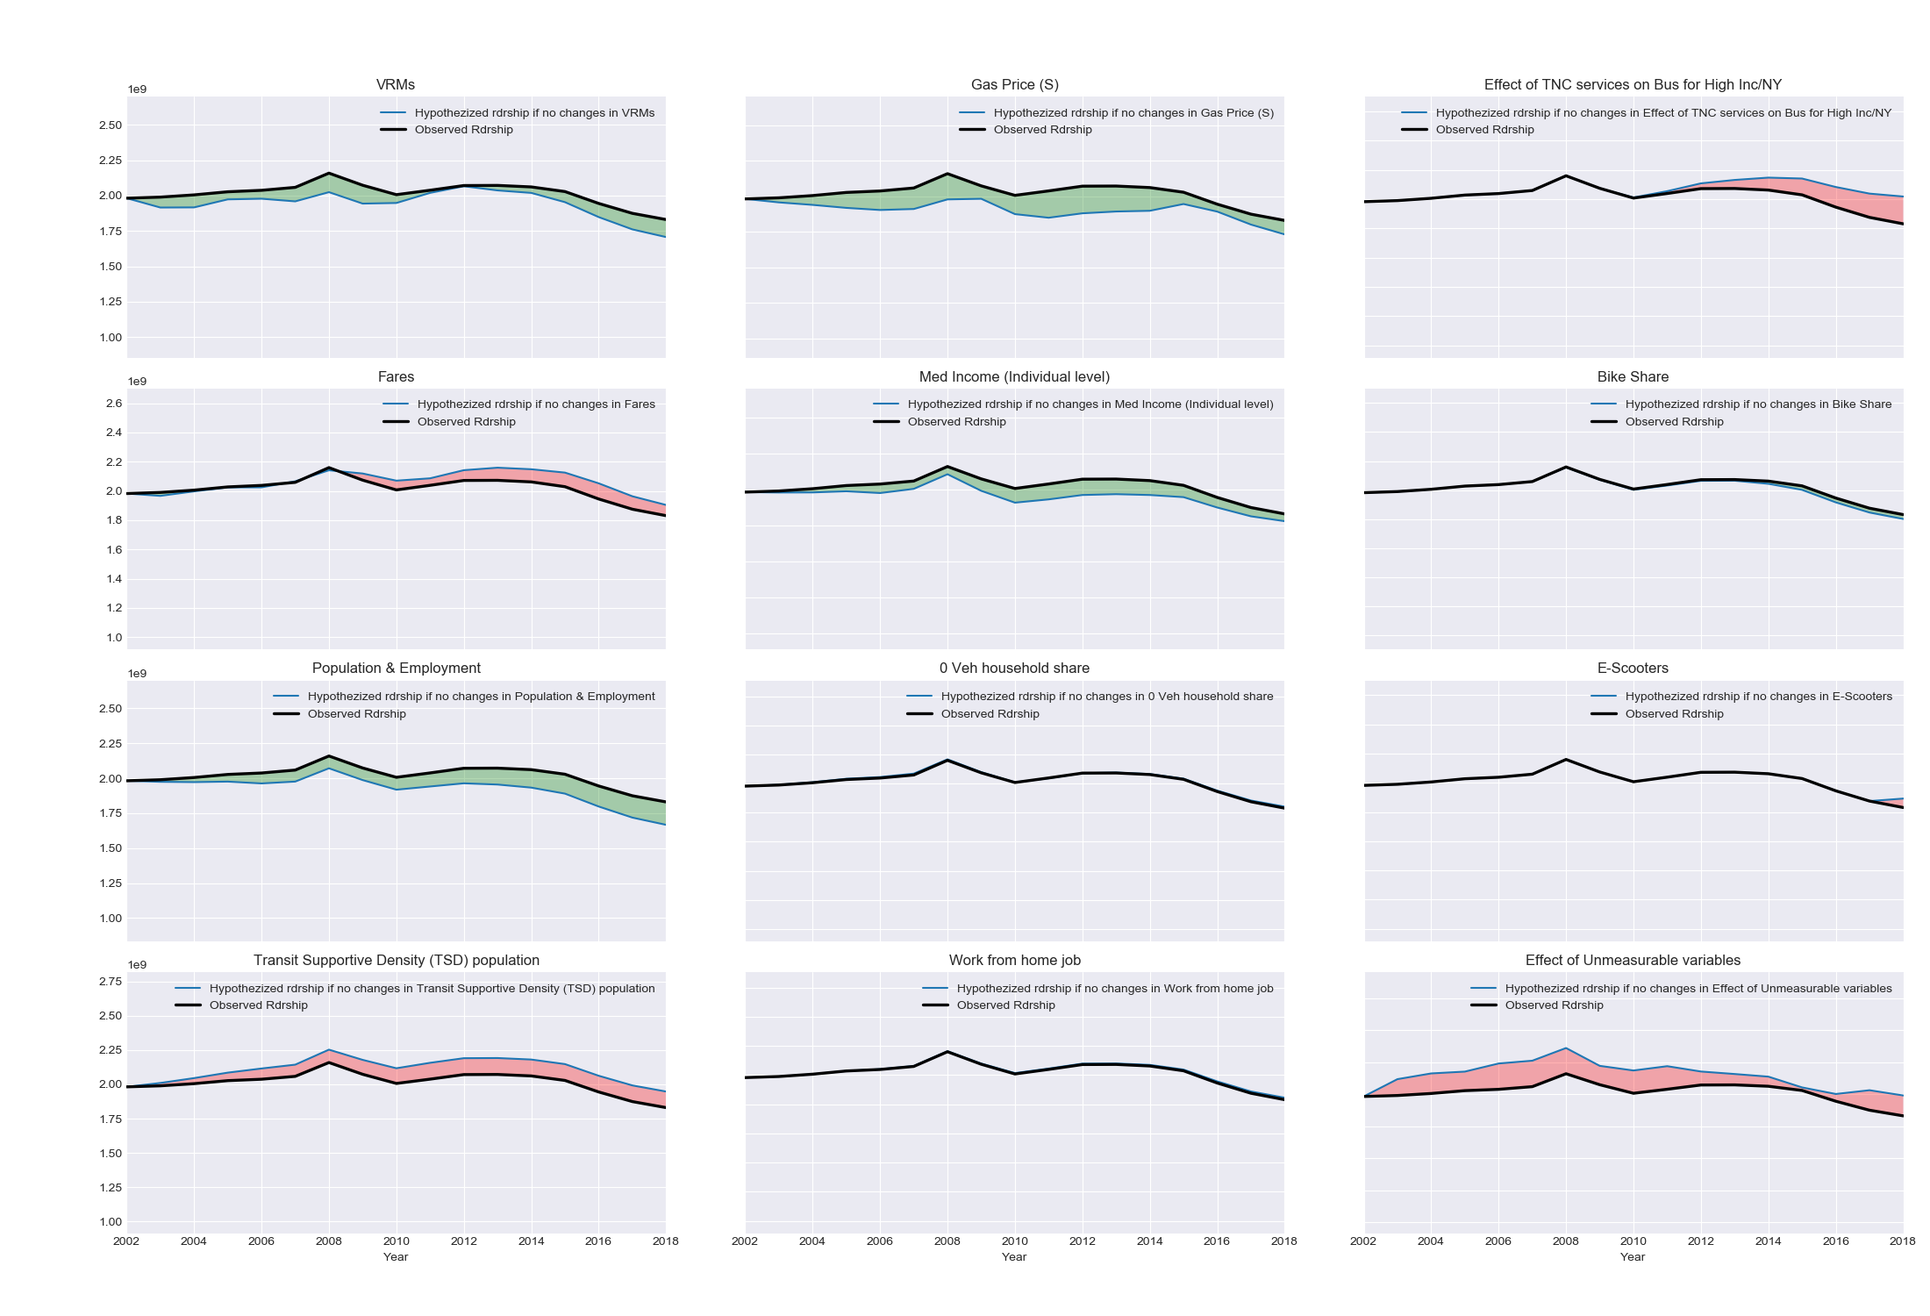
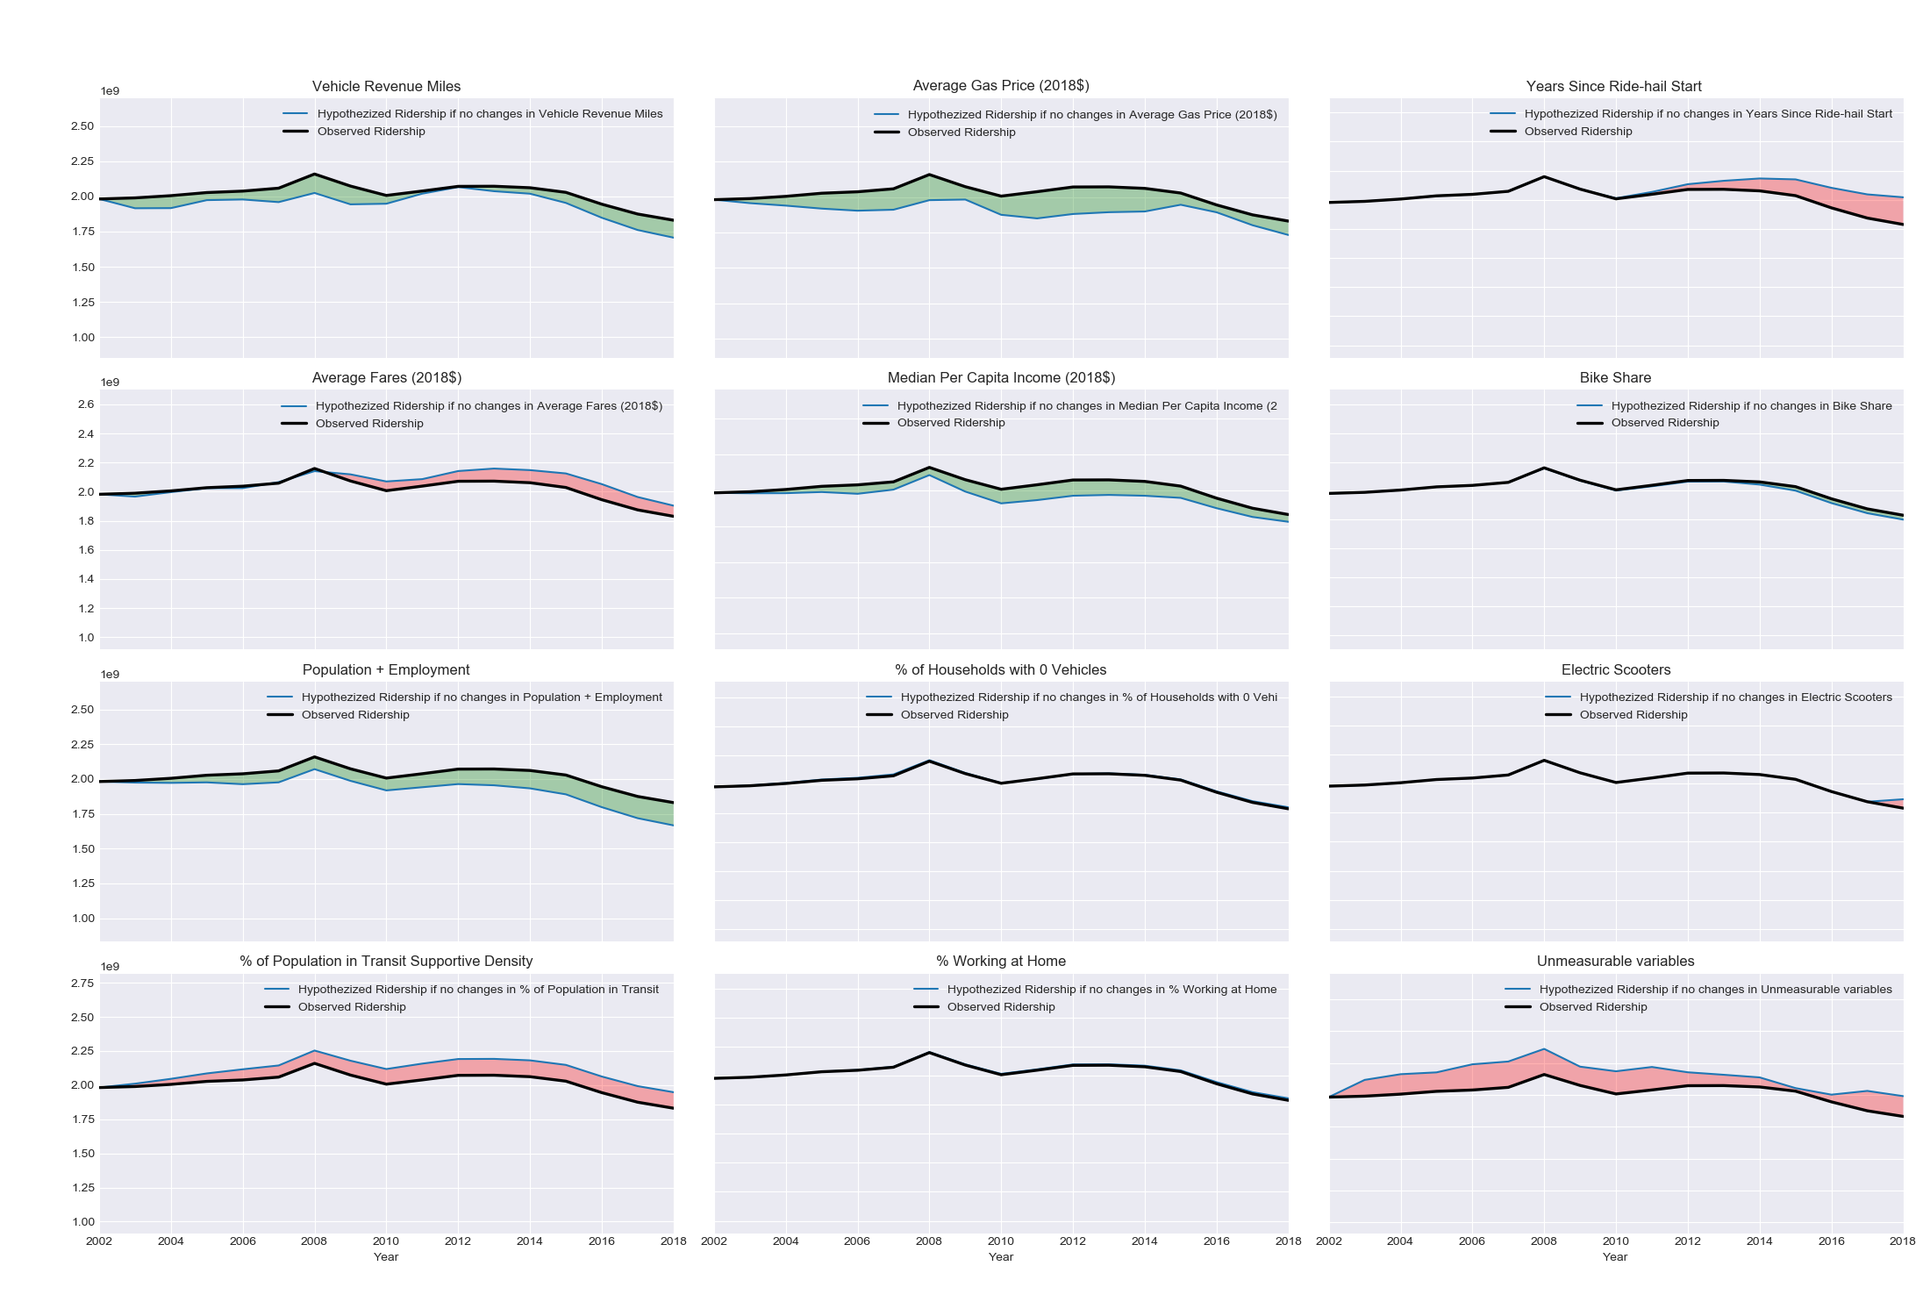
refinements overs the script-7
refinements overs the script-7

diff --git a/Factors and Ridership Data/code/Script-Est7v2.0.py b/Factors and Ridership Data/code/Script-Est7v2.0.py
@@ -1,10 +1,13 @@
 # import packages for the file usage
 import os.path
 import pathlib
+import seaborn as sns
 import matplotlib.pyplot as plt
 import numpy as np
 import pandas as pd
 import os
+import matplotlib as mpl
+from matplotlib import cycler
 
 
 def filter_dataframe(_df, _startyear, _endyear):
@@ -61,22 +64,22 @@ def prepare_charts(_df_org, _clustername, _filename, _startyear, _endyear):
                          'UPT_ADJ_BIKE_SHARE_FAC_cumsum',
                          'UPT_ADJ_scooter_flag_FAC_cumsum',
                          'UPT_ADJ_Unknown_FAC_cumsum']
-            subplot_labels = ['VRMs',
-                              'Fares',
-                              'Population & Employment',
-                              'Transit Supportive Density (TSD) population',
-                              'Gas Price (S)',
-                              'Med Income (Individual level)',
+            subplot_labels = ['Vehicle Revenue Miles',
+                              'Average Fares (2018$)',
+                              'Population + Employment',
+                              '% of Population in Transit Supportive Density',
+                              'Average Gas Price (2018$)',
+                              'Median Per Capita Income (2018$)',
                               # 'Immigrant population',
-                              '0 Veh household share',
-                              'Work from home job',
-                              'Effect of TNC services on Bus for High Inc/NY',
-                              'Effect of TNC services on Bus for Mid&Low Inc Clusters',
-                              'Effect of TNC services on Rail for High Inc/NY',
-                              'Effect of TNC services on Rail for Mid&Low Inc Clusters',
+                              '% of Households with 0 Vehicles',
+                              '% Working at Home',
+                              'Years Since Ride-hail Start on Bus for High Inc/NY',
+                              'Years Since Ride-hail Start on Bus for Mid&Low Inc Clusters',
+                              'Years Since Ride-hail Start on Rail for High Inc/NY',
+                              'Years Since Ride-hail Start on Rail for Mid&Low Inc Clusters',
                               'Bike Share',
-                              'E-Scooters',
-                              'Effect of Unmeasurable variables']
+                              'Electric Scooters',
+                              'Unmeasurable variables']
             fig, ax = plt.subplots(nrows=4, ncols=3, figsize=(22, 15), constrained_layout=False)
 
             if ((cluster == 1) or (cluster == 10)) and (mode == 0):
@@ -85,9 +88,9 @@ def prepare_charts(_df_org, _clustername, _filename, _startyear, _endyear):
                 chartcols.remove('UPT_ADJ_YEARS_SINCE_TNC_RAIL2_MIDLOW_FAC_cumsum')
                 chartcols.remove('UPT_ADJ_YEARS_SINCE_TNC_RAIL2_HINY_FAC_cumsum')
 
-                subplot_labels.remove('Effect of TNC services on Bus for Mid&Low Inc Clusters')
-                subplot_labels.remove('Effect of TNC services on Rail for Mid&Low Inc Clusters')
-                subplot_labels.remove('Effect of TNC services on Rail for High Inc/NY')
+                subplot_labels.remove('Years Since Ride-hail Start on Bus for Mid&Low Inc Clusters')
+                subplot_labels.remove('Years Since Ride-hail Start on Rail for Mid&Low Inc Clusters')
+                subplot_labels.remove('Years Since Ride-hail Start on Rail for High Inc/NY')
 
             if ((cluster == 1) or (cluster == 10)) and (mode == 1):
                 mode_name = "RAIL"
@@ -95,9 +98,9 @@ def prepare_charts(_df_org, _clustername, _filename, _startyear, _endyear):
                 chartcols.remove('UPT_ADJ_YEARS_SINCE_TNC_RAIL2_MIDLOW_FAC_cumsum')
                 chartcols.remove('UPT_ADJ_YEARS_SINCE_TNC_BUS2_HINY_FAC_cumsum')
 
-                subplot_labels.remove('Effect of TNC services on Bus for Mid&Low Inc Clusters')
-                subplot_labels.remove('Effect of TNC services on Rail for Mid&Low Inc Clusters')
-                subplot_labels.remove('Effect of TNC services on Bus for High Inc/NY')
+                subplot_labels.remove('Years Since Ride-hail Start on Bus for Mid&Low Inc Clusters')
+                subplot_labels.remove('Years Since Ride-hail Start on Rail for Mid&Low Inc Clusters')
+                subplot_labels.remove('Years Since Ride-hail Start on Bus for High Inc/NY')
 
             if ((cluster == 2) or (cluster == 3)) and (mode == 0):
                 mode_name = "BUS"
@@ -105,9 +108,9 @@ def prepare_charts(_df_org, _clustername, _filename, _startyear, _endyear):
                 chartcols.remove('UPT_ADJ_YEARS_SINCE_TNC_RAIL2_HINY_FAC_cumsum')
                 chartcols.remove('UPT_ADJ_YEARS_SINCE_TNC_BUS2_HINY_FAC_cumsum')
 
-                subplot_labels.remove('Effect of TNC services on Rail for Mid&Low Inc Clusters')
-                subplot_labels.remove('Effect of TNC services on Rail for High Inc/NY')
-                subplot_labels.remove('Effect of TNC services on Bus for High Inc/NY')
+                subplot_labels.remove('Years Since Ride-hail Start on Rail for Mid&Low Inc Clusters')
+                subplot_labels.remove('Years Since Ride-hail Start on Rail for High Inc/NY')
+                subplot_labels.remove('Years Since Ride-hail Start on Bus for High Inc/NY')
 
             if ((cluster == 2) or (cluster == 3)) and (mode == 1):
                 mode_name = "RAIL"
@@ -115,9 +118,9 @@ def prepare_charts(_df_org, _clustername, _filename, _startyear, _endyear):
                 chartcols.remove('UPT_ADJ_YEARS_SINCE_TNC_RAIL2_HINY_FAC_cumsum')
                 chartcols.remove('UPT_ADJ_YEARS_SINCE_TNC_BUS2_HINY_FAC_cumsum')
 
-                subplot_labels.remove('Effect of TNC services on Bus for Mid&Low Inc Clusters')
-                subplot_labels.remove('Effect of TNC services on Rail for High Inc/NY')
-                subplot_labels.remove('Effect of TNC services on Bus for High Inc/NY')
+                subplot_labels.remove('Years Since Ride-hail Start on Bus for Mid&Low Inc Clusters')
+                subplot_labels.remove('Years Since Ride-hail Start on Rail for High Inc/NY')
+                subplot_labels.remove('Years Since Ride-hail Start on Bus for High Inc/NY')
 
             df_fltr_mode = df_fltr_mod[df_fltr_mod.Mode == mode]
             col = 0
@@ -126,9 +129,9 @@ def prepare_charts(_df_org, _clustername, _filename, _startyear, _endyear):
             num = 0
             for chartcol, subplotlable in zip(chartcols, subplot_labels):
                 df_fltr_mode.groupby('Mode').plot(x='Year', y=str(chartcol),
-                                                  label='Hypothezized rdrship if no changes in ' + str(
-                                                      subplotlable), ax=ax[row][col], legend=True)
-                df_fltr_mode.groupby('Mode').plot(x='Year', y='UPT_ADJ', label='Observed Rdrship', ax=ax[row][col],
+                                                  label='Hypothezized Ridership if no changes in ' + str(
+                                                      subplotlable[:27]), ax=ax[row][col], legend=True)
+                df_fltr_mode.groupby('Mode').plot(x='Year', y='UPT_ADJ', label='Observed Ridership', ax=ax[row][col],
                                                   legend=True, color='black', linewidth=2.4)
                 # Paint the area
                 ax[row][col].fill_between(df_fltr_mode['Year'].values, df_fltr_mode[chartcol].values,
@@ -141,7 +144,10 @@ def prepare_charts(_df_org, _clustername, _filename, _startyear, _endyear):
                                           facecolor='red', interpolate=True, alpha=transparency)
                 # ax[row][col].set(xlabel="Years", ylabel='Ridership')
                 ax[row][col].legend(loc='best', fontsize=10)
-                ax[row][col].set_title(str(subplotlable))
+                if "Ride-hail" not in subplotlable:
+                    ax[row][col].set_title(str(subplotlable))
+                else:
+                    ax[row][col].set_title(str(subplotlable[:28]))
                 ax[row][col].set_autoscaley_on(False)
                 try:
                     ax[row][col].grid(True)
@@ -313,31 +319,31 @@ def get_cluster_chart_raw(_df, _filename, _chart_name, _clusterfile):
                          'BIKE_SHARE',
                          'scooter_flag',
                          'UPT_ADJ']
-            subplot_labels = ['VRMs',
-                              'Fares',
-                              'Population & Employment',
-                              'Transit Supportive Density (TSD) population',
-                              'Gas Price (S)',
-                              'Med Income (Individual level)',
+            subplot_labels = ['Vehicle Revenue Miles',
+                              'Average Fares (2018$)',
+                              'Population + Employment',
+                              '% of Population in Transit Supportive Density',
+                              'Average Gas Price (2018$)',
+                              'Median Per Capita Income (2018$)',
                               # 'Immigrant population',
-                              '0 Veh household share',
-                              'Work from home job',
-                              'Effect of TNC services on Bus for High Inc/NY',
-                              'Effect of TNC services on Bus for Mid&Low Inc Clusters',
-                              'Effect of TNC services on Rail for High Inc/NY',
-                              'Effect of TNC services on Rail for Mid&Low Inc Clusters',
+                              '% of Households with 0 Vehicles',
+                              '% Working at home',
+                              'Years Since Ride-hail Start Bus HINY',
+                              'Years Since Ride-hail Start Bus MIDLOW',
+                              'Years Since Ride-hail Start Rail HINY',
+                              'Years Since Ride-hail Start Rail MIDLOW',
                               'Bike Share',
-                              'E-Scooters',
-                              'Unlinked Passenger Trips (UPTs)']
+                              'Electric Scooters',
+                              'Ridership']
             if ((cluster == 1) or (cluster == 10)) and (mode == 0):
                 mode_name = "BUS"
                 chartcols.remove('YEARS_SINCE_TNC_BUS2_MIDLOW')
                 chartcols.remove('YEARS_SINCE_TNC_RAIL2_MIDLOW')
                 chartcols.remove('YEARS_SINCE_TNC_RAIL2_HINY')
 
-                subplot_labels.remove('Effect of TNC services on Bus for Mid&Low Inc Clusters')
-                subplot_labels.remove('Effect of TNC services on Rail for Mid&Low Inc Clusters')
-                subplot_labels.remove('Effect of TNC services on Rail for High Inc/NY')
+                subplot_labels.remove('Years Since Ride-hail Start Bus MIDLOW')
+                subplot_labels.remove('Years Since Ride-hail Start Rail MIDLOW')
+                subplot_labels.remove('Years Since Ride-hail Start Rail HINY')
 
             if ((cluster == 1) or (cluster == 10)) and (mode == 1):
                 mode_name = "RAIL"
@@ -345,9 +351,9 @@ def get_cluster_chart_raw(_df, _filename, _chart_name, _clusterfile):
                 chartcols.remove('YEARS_SINCE_TNC_RAIL2_MIDLOW')
                 chartcols.remove('YEARS_SINCE_TNC_BUS2_HINY')
 
-                subplot_labels.remove('Effect of TNC services on Bus for Mid&Low Inc Clusters')
-                subplot_labels.remove('Effect of TNC services on Rail for Mid&Low Inc Clusters')
-                subplot_labels.remove('Effect of TNC services on Bus for High Inc/NY')
+                subplot_labels.remove('Years Since Ride-hail Start Bus HINY')
+                subplot_labels.remove('Years Since Ride-hail Start Bus MIDLOW')
+                subplot_labels.remove('Years Since Ride-hail Start Rail MIDLOW')
 
             if ((cluster == 2) or (cluster == 3)) and (mode == 0):
                 mode_name = "BUS"
@@ -355,9 +361,9 @@ def get_cluster_chart_raw(_df, _filename, _chart_name, _clusterfile):
                 chartcols.remove('YEARS_SINCE_TNC_RAIL2_HINY')
                 chartcols.remove('YEARS_SINCE_TNC_BUS2_HINY')
 
-                subplot_labels.remove('Effect of TNC services on Rail for Mid&Low Inc Clusters')
-                subplot_labels.remove('Effect of TNC services on Rail for High Inc/NY')
-                subplot_labels.remove('Effect of TNC services on Bus for High Inc/NY')
+                subplot_labels.remove('Years Since Ride-hail Start Rail MIDLOW')
+                subplot_labels.remove('Years Since Ride-hail Start Bus HINY')
+                subplot_labels.remove('Years Since Ride-hail Start Rail HINY')
 
             if ((cluster == 2) or (cluster == 3)) and (mode == 1):
                 mode_name = "RAIL"
@@ -365,9 +371,9 @@ def get_cluster_chart_raw(_df, _filename, _chart_name, _clusterfile):
                 chartcols.remove('YEARS_SINCE_TNC_RAIL2_HINY')
                 chartcols.remove('YEARS_SINCE_TNC_BUS2_HINY')
 
-                subplot_labels.remove('Effect of TNC services on Bus for Mid&Low Inc Clusters')
-                subplot_labels.remove('Effect of TNC services on Rail for High Inc/NY')
-                subplot_labels.remove('Effect of TNC services on Bus for High Inc/NY')
+                subplot_labels.remove('Years Since Ride-hail Start Bus MIDLOW')
+                subplot_labels.remove('Years Since Ride-hail Start Bus HINY')
+                subplot_labels.remove('Years Since Ride-hail Start Rail HINY')
 
             df_fltr_mode = df_fltr_mod[df_fltr_mod.Mode == mode]
             col = 0
@@ -375,10 +381,13 @@ def get_cluster_chart_raw(_df, _filename, _chart_name, _clusterfile):
             num = 0
             for chartcol, subplotlable in zip(chartcols, subplot_labels):
                 df_fltr_mode.groupby('Mode').plot(x='Year', y=str(chartcol),
-                                                  label=(str(subplotlable) + ' - ' + mode_name),
+                                                  label=(str(subplotlable[0:27]) + ' - ' + mode_name),
                                                   ax=ax[row][col], legend=True)
                 ax[row][col].legend(loc='best', fontsize=10)
-                ax[row][col].set_title(str(subplotlable))
+                if "Ride-hail" not in subplotlable:
+                    ax[row][col].set_title(str(subplotlable))
+                else:
+                    ax[row][col].set_title(str(subplotlable[:28]))
                 ax[row][col].set_autoscaley_on(True)
                 try:
                     ax[row][col].grid(True)
@@ -471,6 +480,11 @@ def get_clusterwise_UPTs(_df, _filename, _chart_name, _clusterfile):
         clusternumber = 1
         x = 1
         fig, ax = plt.subplots(nrows=2, ncols=2, figsize=(22, 15), constrained_layout=False)
+        # plt.style.use('seaborn-darkgrid')
+        custom_cycler = (cycler(color=['r', 'g', 'b', 'y']))
+        plt.rc('lines', linewidth=2.4)
+        plt.rc('axes', prop_cycle=custom_cycler)
+        # mpl.style.use('seaborn')
         col = 0
         row = 0
         for cluster in clusters:
@@ -482,36 +496,39 @@ def get_clusterwise_UPTs(_df, _filename, _chart_name, _clusterfile):
             df_fltr['Year'] = pd.to_datetime(df_fltr['Year'].astype(str), format='%Y')
             df_fltr_mod = df_fltr.set_index(pd.DatetimeIndex(df_fltr['Year']).year)
             # Initialize the figure
-            plt.style.use('seaborn-darkgrid')
             chartcols = ['UPT_ADJ']
-            subplot_labels = ['Unlinked Passenger Trips']
+            subplot_labels = ['Ridership']
             for mode in modes:
-                df_fltr_mode = df_fltr_mod[df_fltr_mod.Mode == mode]
-                if mode == 0:
-                    mode_name = "BUS"
+                if (cluster==3) and (mode==1):
+                    pass
                 else:
-                    mode_name = "RAIL"
+                    df_fltr_mode = df_fltr_mod[df_fltr_mod.Mode == mode]
+                    if mode == 0:
+                        mode_name = "BUS"
+                    else:
+                        mode_name = "RAIL"
 
-                for chartcol, subplotlable in zip(chartcols, subplot_labels):
-                    df_fltr_mode.groupby('Mode').plot(x='Year', y=str(chartcol),
-                                                      label=(str(subplotlable) + ' - ' + mode_name),
-                                                      ax=ax[row][col], legend=True)
-                    ax[row][col].legend(loc='best', fontsize=10)
-                    ax[row][col].set_title(str(subplotlable))
-                    ax[row][col].set_autoscaley_on(True)
-                    try:
-                        ax[row][col].grid(True)
-                        ax[row][col].margins(0.20)
-                    except ValueError:
-                        pass
+                    for chartcol, subplotlable in zip(chartcols, subplot_labels):
+                        df_fltr_mode.groupby('Mode').plot(x='Year', y=str(chartcol),
+                                                          label=(str(subplotlable) + ' - ' + mode_name),
+                                                          ax=ax[row][col], legend=True)
+                        ax[row][col].set_prop_cycle(custom_cycler)
+                        ax[row][col].legend(loc='best', fontsize=10)
+                        ax[row][col].set_title(str(subplotlable))
+                        ax[row][col].set_autoscaley_on(True)
+                        try:
+                            ax[row][col].grid(True)
+                            ax[row][col].margins(0.20)
+                        except ValueError:
+                            pass
             if row >= 1:
                 row = 0
                 col += 1
             else:
                 row += 1
 
-        for z in fig.get_axes():
-            z.label_outer()
+        # for z in fig.get_axes():
+        #     z.label_outer()
 
         fig.tight_layout(rect=[0.03, 0.03, 1, 0.95])
         _figno = x
@@ -542,7 +559,7 @@ def get_clusterwise_UPTs(_df, _filename, _chart_name, _clusterfile):
         fig.savefig(figname)
 
         plt.suptitle("Clusterwise Ridership Trends", fontsize=10)
-
+        plt.style.use('seaborn')
         plt.close(fig)
         x += 1
         clusternumber += 1
@@ -577,9 +594,9 @@ def main():
     # get the UPT_FAC files created according to the base year
     # base year 2002
     create_upt_fac_cluster_file("FAC_totals_APTA4_CLUSTERS.csv", "CLUSTER_APTA4", 2002, 2018)
-    # # # base year 2012
+    # # # # base year 2012
     create_upt_fac_cluster_file("FAC_totals_APTA4_CLUSTERS.csv", "CLUSTER_APTA4", 2012, 2018)
-    # # # get absolute charts
+    # # # # get absolute charts
     get_cluster_file_raw("UPT_FAC_totals_APTA4_CLUSTERS_b2002.csv", "CLUSTER_APTA4")
     # # get upt only charts
     get_clusterwise_only_UPTs("UPT_FAC_totals_APTA4_CLUSTERS_b2002.csv", "CLUSTER_APTA4")
